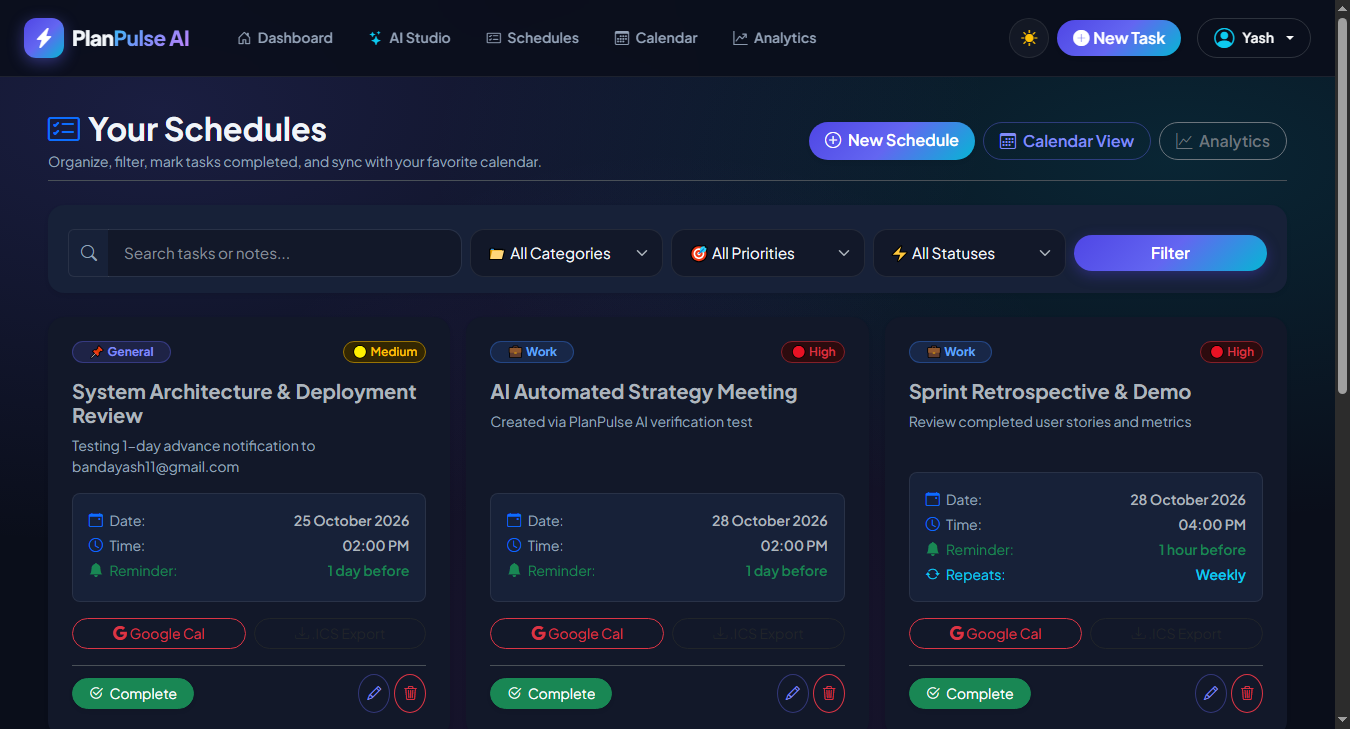
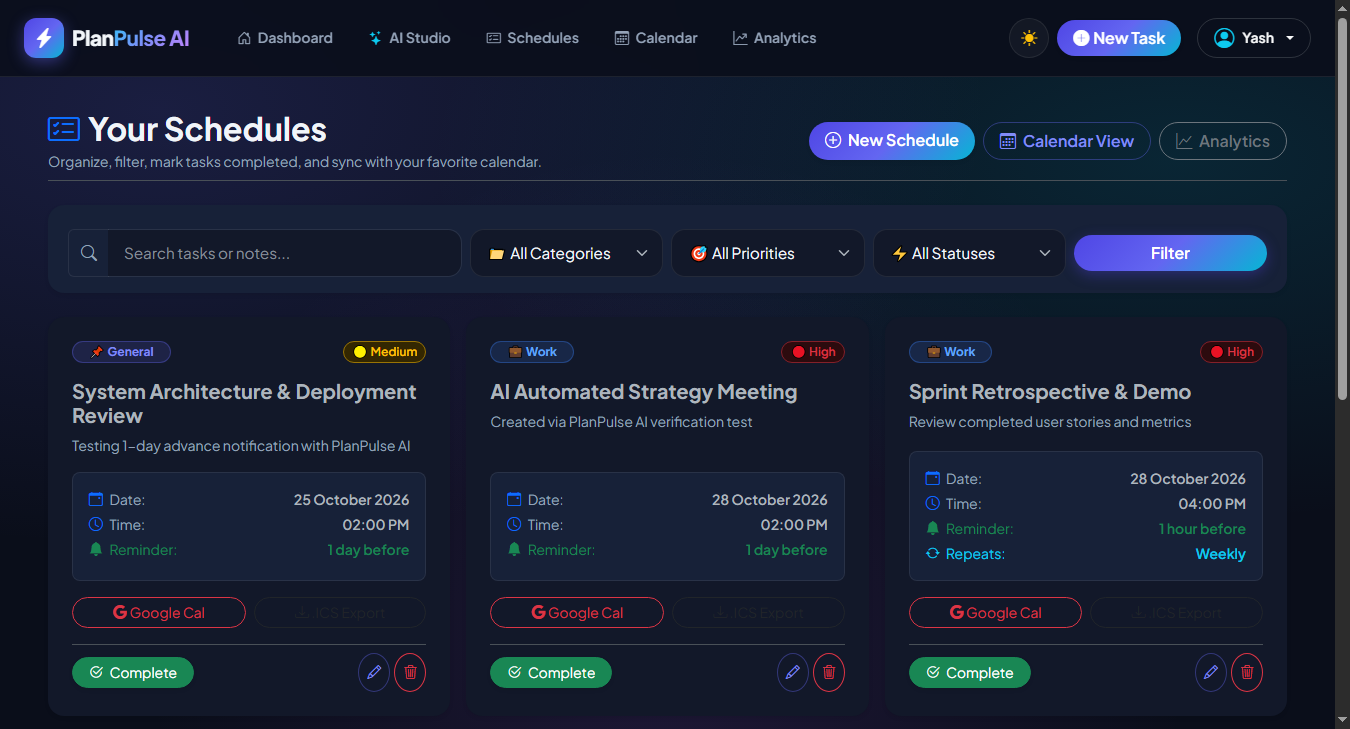
fix(security): sanitize all private email references and replace demo test email with demo@planpulse.ai

diff --git a/templates/contact.html b/templates/contact.html
@@ -25,8 +25,8 @@
             </div>
             <div class="overflow-hidden">
               <span class="text-muted small fw-semibold text-uppercase d-block">Direct Email</span>
-              <a href="mailto:bandayash750@gmail.com" class="fw-bold text-decoration-none text-truncate d-block">
-                bandayash750@gmail.com
+              <a href="mailto:contact@planpulse.ai" class="fw-bold text-decoration-none text-truncate d-block">
+                contact@planpulse.ai
               </a>
             </div>
           </div>

diff --git a/templates/login.html b/templates/login.html
@@ -53,7 +53,7 @@
         <!-- Quick Demo Hint -->
         <div class="p-2 rounded-3 bg-light-subtle border border-light-subtle text-center mb-4 small">
           <span class="text-muted">Test Account: </span>
-          <code class="text-primary fw-bold">bandayash11@gmail.com</code> / <code class="text-muted">yash123</code>
+          <code class="text-primary fw-bold">demo@planpulse.ai</code> / <code class="text-muted">yash123</code>
         </div>
 
         <div class="text-center pt-3 border-top border-light-subtle">

diff --git a/README.md b/README.md
@@ -82,7 +82,7 @@ A verified demonstration user is available out-of-the-box:
 
 | Role | Email Address | Password | Capabilities |
 | :--- | :--- | :--- | :--- |
-| **Demo User** | `bandayash11@gmail.com` | `yash123` | Full access to AI Studio, schedules backlog, FullCalendar, Chart.js analytics, email reminders, and profile controls |
+| **Demo User** | `demo@planpulse.ai` | `yash123` | Full access to AI Studio, schedules backlog, FullCalendar, Chart.js analytics, email reminders, and profile controls |
 | **New User** | *(Register via `/signup`)* | *(Your password)* | Instant personal dashboard with automated database migration |
 
 ---
